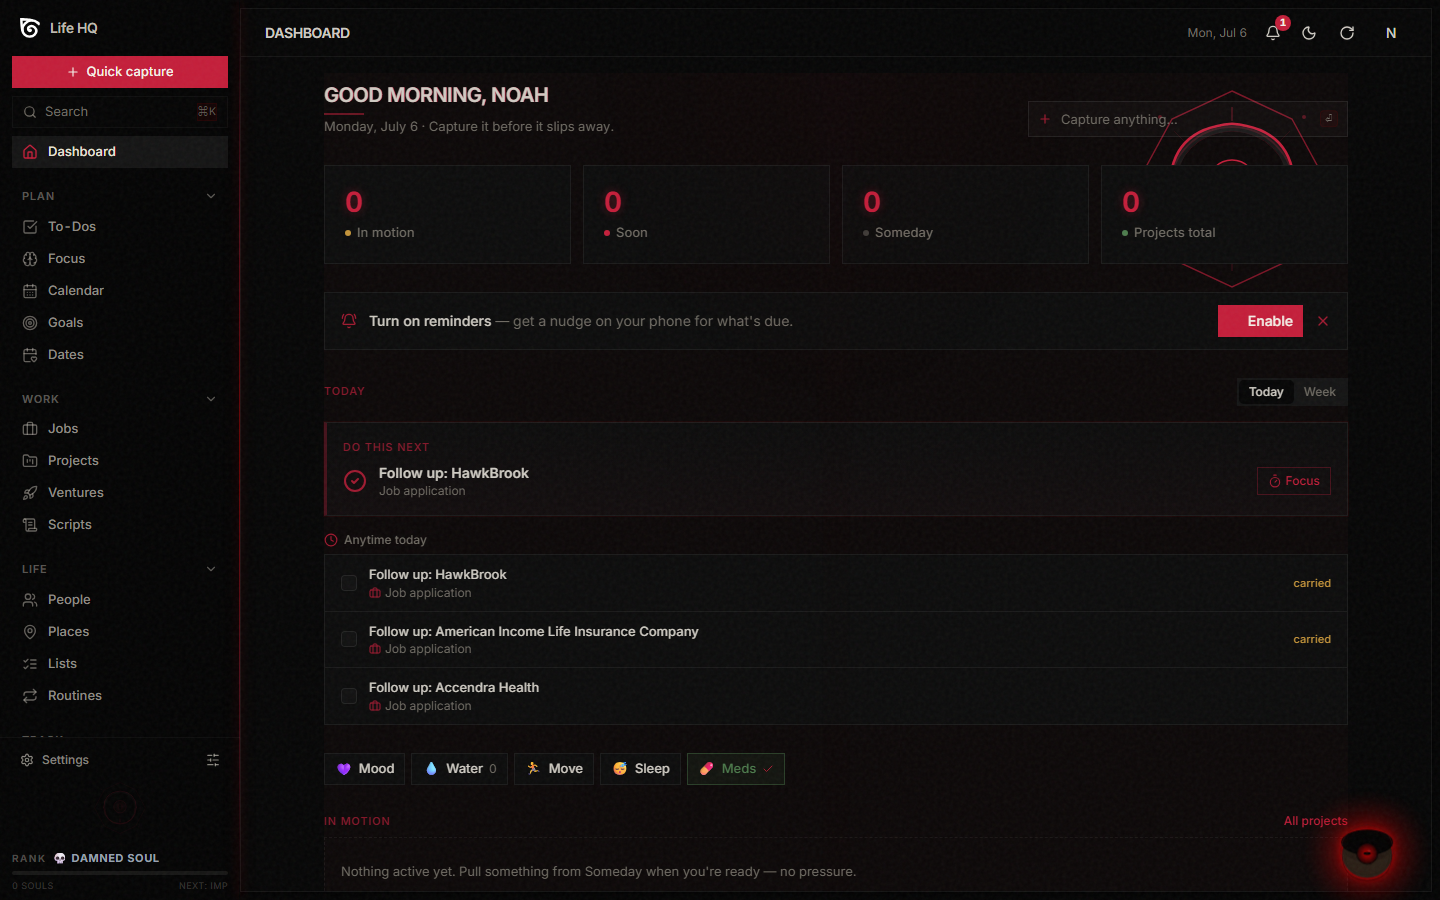
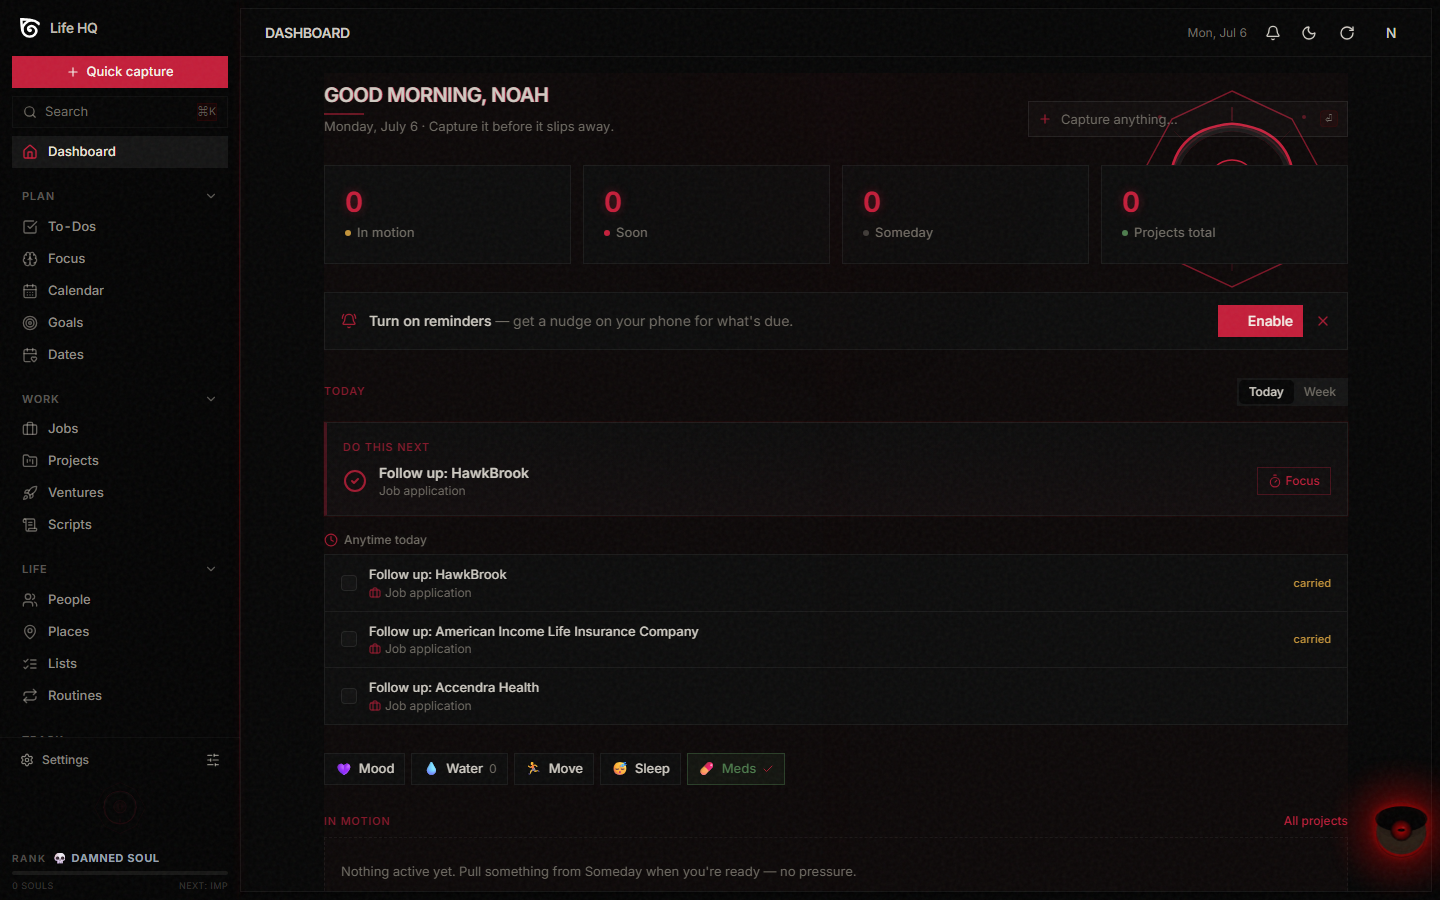
fix: removed duplicate data-section from Dashboard inner div — let parent bg show

Changed region(s): [[0.9062, 0.8711, 1.0, 1.0], [0.875, 0.0, 0.9062, 0.0311]]

diff --git a/src/components/atomic-crm/dashboard/Dashboard.tsx b/src/components/atomic-crm/dashboard/Dashboard.tsx
@@ -92,7 +92,7 @@ export const Dashboard = () => {
   };
 
   return (
-    <div data-section="dashboard" className="mx-auto flex max-w-5xl flex-col gap-7 py-2 page-enter stagger relative" style={{ backgroundColor: "#120606" }}>
+    <div className="mx-auto flex max-w-5xl flex-col gap-7 py-2 page-enter stagger relative">
       <DemonicEye size={200} className="absolute top-4 right-4 opacity-15 pointer-events-none z-0" />
       {/* Operations header: greeting left, capture right */}
       <div className="flex flex-wrap items-end justify-between gap-x-6 gap-y-3">